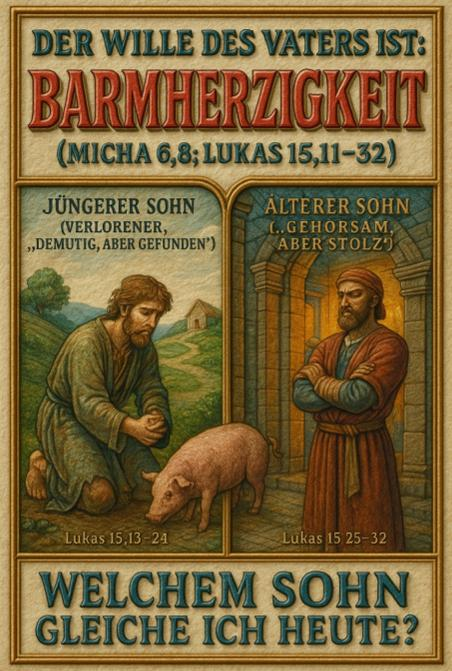
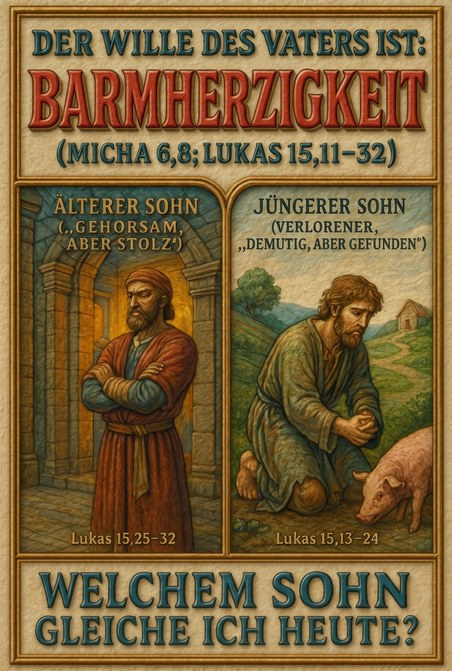
Reading guide: Warnung/Vorbild legend in card viewer, first-visit tip, updated Barmherzigkeit card (71)
Claude-Session: https://claude.ai/code/session_012hPNsWTenrk6RyN1Su1MVr

diff --git a/index.html b/index.html
@@ -1121,6 +1121,26 @@ html, body {
 .vn-text { margin: 0; font-size: 1rem; line-height: 1.62; color: var(--text); }
 .vn-q { margin: 14px 0 0; font-family: var(--font-display); font-style: italic; font-size: 1.22rem; line-height: 1.45; color: var(--gold-bright); }
 .vn-refs { margin: 12px 0 0; font-size: .85rem; line-height: 1.5; color: var(--text-muted); }
+
+/* ---- Leseanleitung (erste Zeit) + Legende im Großansicht-Fenster ------------- */
+.read-tip { grid-column: 1 / -1; margin: 0; max-width: 640px; justify-self: center; width: 100%; padding: 16px 18px; border: 1px solid var(--line-strong); border-radius: 16px; background: var(--surface); display: grid; gap: 10px; justify-items: start; text-align: start; }
+.read-tip[hidden] { display: none; }
+.read-tip-title { margin: 0; font-family: var(--font-display); font-weight: 600; font-size: 1.35rem; color: var(--gold-bright); }
+.read-tip p { margin: 0; font-size: .95rem; line-height: 1.55; color: var(--text); }
+.read-tip strong { color: var(--gold-bright); font-weight: 600; }
+
+.vp-legend { display: flex; gap: 8px; justify-content: center; padding: 6px var(--gutter) 2px; }
+.vp-legend[hidden] { display: none; }
+.vp-side { flex: 1 1 0; max-width: 280px; min-width: 0; display: grid; gap: 1px; padding: 6px 12px; border-radius: 12px; border: 1px solid var(--line); background: var(--surface); }
+.vp-side.is-warn { text-align: left; border-color: rgba(214, 112, 112, .55); }
+.vp-side.is-vor { text-align: right; border-color: rgba(120, 190, 130, .55); }
+.vp-label { font-size: .66rem; letter-spacing: .12em; text-transform: uppercase; color: var(--text-muted); }
+.vp-side.is-warn .vp-label { color: #e49a9a; }
+.vp-side.is-vor .vp-label { color: #9fd3a6; }
+.vp-name { font-size: .85rem; line-height: 1.25; color: var(--text); overflow-wrap: anywhere; }
+:root[data-theme="light"] .vp-side.is-warn .vp-label { color: #8f2f3a; }
+:root[data-theme="light"] .vp-side.is-vor .vp-label { color: #2f6a3a; }
+@media (max-height: 520px) { .vp-legend { display: none; } }
 </style>
 </head>
 
@@ -1174,6 +1194,12 @@ html, body {
     <!-- ======================  VIEW 1: DRAW YOUR CARD  ====================== -->
     <section class="view" id="view-draw" data-view="draw" role="tabpanel" aria-labelledby="tab-draw">
       <div class="container draw">
+
+        <div class="read-tip" id="readTip" hidden role="note" aria-labelledby="readTipTitle">
+          <h3 class="read-tip-title" id="readTipTitle">So liest du die Karten</h3>
+          <p>Auf vielen Karten stehen zwei Personen nebeneinander. <strong>Links</strong> siehst du eine <strong>Warnung</strong>, <strong>rechts</strong> ein <strong>Vorbild</strong>. Eine Warnung zeigt, was wir meiden sollen – nicht, wer ein Mensch insgesamt war. Lerne aus beiden und frage dich: Wo finde ich mich wieder?</p>
+          <button type="button" class="btn btn-ghost btn-sm" id="readTipOk">Verstanden</button>
+        </div>
 
         <div class="draw-stage" id="drawStage">
           <div class="deck" id="deck" aria-hidden="true"></div>      <!-- the face-down stack (built by JS) -->
@@ -1380,6 +1406,8 @@ html, body {
         <svg class="icon" viewBox="0 0 24 24" aria-hidden="true"><path d="m9 18 6-6-6-6"/></svg>
       </button>
     </div>
+
+    <div class="vp-legend" id="viewerPair" hidden aria-label="Wie du die Karte liest"></div>
 
     <div class="vn-panel" id="viewerNotePanel" role="region" aria-labelledby="vnTitle" hidden></div>
 
@@ -2352,6 +2380,7 @@ window.COR_DEO_NOTES = {
 
     $("viewerTitle").textContent = model.title ? model.number + " · " + model.title : STR.card + " " + model.number;
     updateViewerNote(model);
+    updateViewerPair(model);
     var pos = visible.indexOf(viewerIndex);
     var total = visible.length || cards.length;
     $("viewerCount").textContent = (pos > -1 ? pos + 1 : model.number) + " " + STR.of + " " + total;
@@ -2362,6 +2391,20 @@ window.COR_DEO_NOTES = {
       var nb = neighbour(d);
       if (nb > -1 && nb !== viewerIndex) { (new Image()).src = cards[nb].front; (new Image()).src = cards[nb].back; }
     });
+  }
+
+  /** Legende unter der Karte: links Warnung, rechts Vorbild (nur Karten mit zwei Personen). */
+  function updateViewerPair(model) {
+    var box = $("viewerPair"), p = (window.COR_DEO_PAIRS || {})[model.number];
+    box.innerHTML = "";
+    if (!p) { box.hidden = true; return; }
+    function side(cls, label, name) {
+      var d = el("div", "vp-side " + cls), a = el("span", "vp-label"), b = el("span", "vp-name");
+      a.textContent = label; b.textContent = name; d.appendChild(a); d.appendChild(b); return d;
+    }
+    box.appendChild(side("is-warn", "◀ Links: Warnung", p.w));
+    box.appendChild(side("is-vor", "Rechts: Vorbild ▶", p.v));
+    box.hidden = false;
   }
 
   /** "Gedanke zur Karte": Knopf + Panel, nur für Karten mit Eintrag in COR_DEO_NOTES. */
@@ -2637,8 +2680,17 @@ window.COR_DEO_NOTES = {
     wireDraw();
     wireJourney();
     restoreToday();
+    setupReadTip();
     showView("draw", false);
     renderJourney();
+  }
+
+  /** Kurze Leseanleitung, die nur beim ersten Besuch erscheint (merkt sich "Verstanden" im Browser). */
+  function setupReadTip() {
+    var tip = $("readTip"), ok = $("readTipOk"), KEY2 = "cordeo:v1:readtip";
+    if (!tip || !ok) return;
+    if (A.store.get(KEY2) !== "1") tip.hidden = false;
+    ok.addEventListener("click", function () { tip.hidden = true; A.store.set(KEY2, "1"); });
   }
 
   var VIEWS = ["draw", "journey", "library", "game", "wille"];
@@ -3191,6 +3243,18 @@ window.COR_DEO_NOTES = {
     { n: 111, th: "Dankt in allen Dingen", w: "Die Israeliten in der Wüste", wr: "2. Mose 16,3", v: "Habakuk", vr: "Habakuk 3,17–18", q: "Kann ich heute sagen: „Aber ich will mich freuen“?" },
     { n: 117, th: "Bereitet zur ewigen Gemeinschaft", w: "Der reiche Jüngling", wr: "Matthäus 19,16–22", v: "Henoch", vr: "1. Mose 5,24; Hebräer 11,5", q: "Was hält mich zurück, Jesus ganz zu folgen und die ewige Gemeinschaft zu ergreifen?" }
   ];
+
+  /* Für das Großansicht-Fenster: Karte -> wer links (Warnung) und wer rechts (Vorbild) steht.
+     Aus GAME_DATA abgeleitet (n = Vorderseiten-Bild, Kartennummer = (n+1)/2); die Karte
+     „Barmherzigkeit" (Karte 36) gehört nicht zum Quiz und wird hier ergänzt. */
+  (function () {
+    var map = {};
+    GAME_DATA.forEach(function (d) {
+      [d.n].concat(d.also || []).forEach(function (n) { map[(n + 1) / 2] = { w: d.w, v: d.v }; });
+    });
+    map[36] = { w: "Älterer Sohn", v: "Jüngerer Sohn" };
+    window.COR_DEO_PAIRS = map;
+  })();
 
   var ROUND = 10;
   var BEST_KEY = "cordeo:game:best";

diff --git a/sw.js b/sw.js
@@ -6,8 +6,8 @@
      sodass ein Update der Seite (VERSION erhöhen) die ~7,6 MB nicht erneut herunterlädt.
    - Fremde Adressen (z. B. Google Fonts) werden nicht angefasst.
    Bei Änderungen an diesem Skript: VERSION erhöhen. Bei neuen/geänderten Kartenbildern: IMG_CACHE erhöhen. */
-var VERSION = "cordeo-v3";
-var IMG_CACHE = "cordeo-img-v1";
+var VERSION = "cordeo-v4";
+var IMG_CACHE = "cordeo-img-v2";
 var CARD_COUNT = 120;                       // Anzahl der Bilddateien "COR DEO-Karten-001.jpg" … "-120.jpg"
 var PRECACHE_PARALLEL = 4;
 var SHELL = ["./", "index.html", "manifest.json", "pwa.js",
